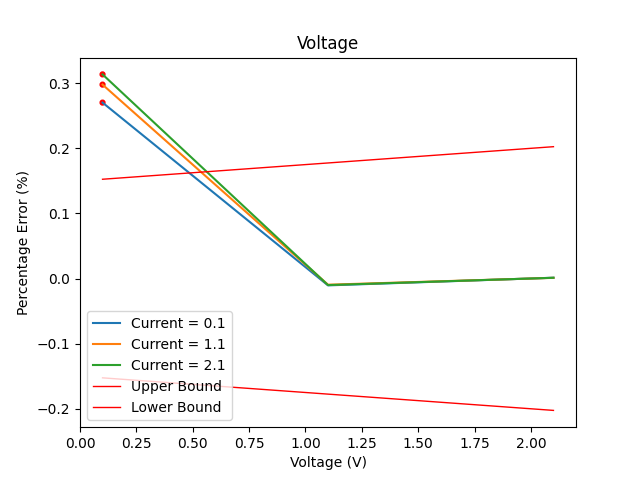
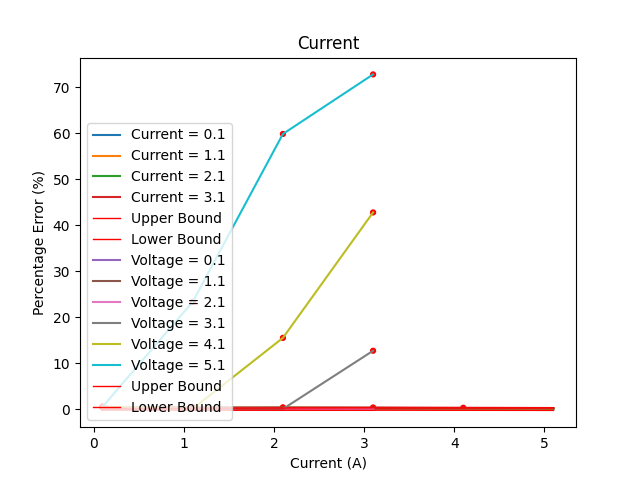
Error with legend of the plot

diff --git a/src/data.py b/src/data.py
@@ -21,7 +21,7 @@ class datatoCSV_Accuracy(object):
 
     """
 
-    def __init__(self, infoList, dataList, flag):
+    def __init__(self, infoList, dataList, flag_VI):
         """This function initializes the preprocessing of data and generate CSV file
 
             This function begins by extracting the list provided as an arguement into
@@ -68,11 +68,11 @@ class datatoCSV_Accuracy(object):
         Irdbk_error = Iset - Ireadback
         IPrdbk_error = Irdbk_error / Iset * 100
 
-        if flag == 1:
+        if flag_VI == 1:
             VsetF = Vset.to_frame(name="Voltage Set (PS)")
             IsetF = Iset.to_frame(name="Current Set (EL)")
             VIfixF = VIfix.to_frame(name="Current set (PS)")
-        elif flag == 2:
+        elif flag_VI == 2:
             VsetF = Vset.to_frame(name="Voltage Set (EL)")
             IsetF = Iset.to_frame(name="Current Set (PS)")
             VIfixF = VIfix.to_frame(name="Voltage set (PS)")
@@ -243,8 +243,8 @@ class datatoCSV_Regulation(object):
 class datatoGraph(datatoCSV_Accuracy):
     """Child class of datatoCSV_Accuracy to plot the graph"""
 
-    def __init__(self, infoList, dataList):
-        super().__init__(infoList, dataList)
+    def __init__(self, infoList, dataList, flag_VI):
+        super().__init__(infoList, dataList, flag_VI)
         self.data = pd.read_csv("csv/data.csv")
 
     def errorBoundary(self, param1, param2, UNIT, x, x_err, y):
@@ -314,9 +314,9 @@ class datatoGraph(datatoCSV_Accuracy):
             plt.plot(
                 x,
                 x_err,
-                label="Current = " + str(y.iloc[0]["Current Set"]),
+                label="Current = " + str(y.iloc[0]["Current Set (EL)"]),
             )
-
+            # plt.legend(loc="upper left")
             plt.title(UNIT)
             plt.xlabel("Voltage (V)")
             plt.ylabel("Percentage Error (%)")
@@ -365,9 +365,9 @@ class datatoGraph(datatoCSV_Accuracy):
             plt.plot(
                 x,
                 x_err,
-                label="Voltage = " + str(y.iloc[0]["Voltage Set"]),
+                label="Voltage = " + str(y.iloc[0]["Voltage Set (EL)"]),
             )
-            plt.legend(loc="upper left")
+            # plt.legend(loc="upper left")
             plt.title(UNIT)
             plt.xlabel("Current (A)")
             plt.ylabel("Percentage Error (%)")
@@ -405,8 +405,8 @@ class datatoGraph(datatoCSV_Accuracy):
         conditionC_rdbk = pd.Series()
 
         for x in range(len(grouped_df)):
-            Vset = grouped_df.get_group(x)[["Voltage Set"]]
-            Iset = grouped_df.get_group(x)[["Current Set"]]
+            Vset = grouped_df.get_group(x)[["Voltage Set (PS)"]]
+            Iset = grouped_df.get_group(x)[["Current Set (EL)"]]
             Vpercent_error_meas = grouped_df.get_group(x)[["Volt Meas_Err(%)"]]
             Vpercent_error_rdbk = grouped_df.get_group(x)[["Volt Rdbk_Err(%)"]]
             # Ipercent_error = grouped_df.get_group(x)[["Curr Meas_Err(%)"]]
@@ -485,7 +485,7 @@ class datatoGraph(datatoCSV_Accuracy):
             plt.plot(
                 VsetS,
                 Vpercent_errorS_meas,
-                label="Current = " + str(Iset.iloc[0]["Current Set"]),
+                label="Current = " + str(Iset.iloc[0]["Current Set (EL)"]),
             )
 
             plt.title("Voltage")
@@ -580,8 +580,8 @@ class datatoGraph(datatoCSV_Accuracy):
         conditionC_rdbk = pd.Series()
 
         for x in range(len(grouped_df)):
-            Vset = grouped_df.get_group(x)[["Voltage Set"]]
-            Iset = grouped_df.get_group(x)[["Current Set"]]
+            Vset = grouped_df.get_group(x)[["Voltage Set (EL)"]]
+            Iset = grouped_df.get_group(x)[["Current Set (PS)"]]
             # Vpercent_error = grouped_df.get_group(x)[["Volt Meas_Err(%)"]]
             Ipercent_error_meas = grouped_df.get_group(x)[["Curr Meas_Err(%)"]]
             Ipercent_error_rdbk = grouped_df.get_group(x)[["Curr Meas_Err(%)"]]
@@ -660,7 +660,7 @@ class datatoGraph(datatoCSV_Accuracy):
             plt.plot(
                 IsetS,
                 Ipercent_errorS_meas,
-                label="Voltage = " + str(Vset.iloc[0]["Voltage Set"]),
+                label="Voltage = " + str(Vset.iloc[0]["Voltage Set (EL)"]),
             )
 
             plt.title("Current")

diff --git a/main_GUI.py b/main_GUI.py
@@ -480,7 +480,7 @@ class VoltageMeasurementDialog(QDialog):
         self.DMM_I = "USB0::0x2A8D::0x0201::MY57702174::0::INSTR"
 
     def ELoad_VisaAddress_changed(self, s):
-        self.ELoad = "USB0::0x2A8D::0x3902::MY60260001::0::INSTR"
+        self.ELoad = "USB0::0x2A8D::0x5C02::MY62100065::0::INSTR"
 
     def ELoad_Channel_changed(self, s):
         self.ELoad_Channel = 1
@@ -667,8 +667,8 @@ class VoltageMeasurementDialog(QDialog):
 
             if self.checkbox_data_Report == 2:
                 instrumentData(self.PSU, self.DMM_V, self.ELoad)
-                datatoCSV_Accuracy(infoList, dataList, flag=1)
-                datatoGraph(infoList, dataList)
+                datatoCSV_Accuracy(infoList, dataList, flag_VI=1)
+                datatoGraph(infoList, dataList, flag_VI=1)
                 datatoGraph.scatterCompareVoltage(
                     self, float(self.Prog_Accuracy_Gain), float(self.Prog_Accuracy_Offset), float(self.Rdbk_Accuracy_Gain), float(self.Rdbk_Accuracy_Offset)
                 )
@@ -943,7 +943,7 @@ class CurrentMeasurementDialog(QDialog):
         self.DMM_I = "USB0::0x2A8D::0x0201::MY57702174::0::INSTR"
 
     def ELoad_VisaAddress_changed(self, s):
-        self.ELoad = "USB0::0x2A8D::0x3902::MY60260001::0::INSTR"
+        self.ELoad = "USB0::0x2A8D::0x5C02::MY62100065::0::INSTR"
 
     def ELoad_Channel_changed(self, s):
         self.ELoad_Channel = 1
@@ -1131,8 +1131,8 @@ class CurrentMeasurementDialog(QDialog):
 
             if self.checkbox_data_Report == 2:
                 instrumentData(self.PSU, self.DMM_I, self.ELoad)
-                datatoCSV_Accuracy(infoList, dataList, flag=2)
-                datatoGraph(infoList, dataList)
+                datatoCSV_Accuracy(infoList, dataList, flag_VI=2)
+                datatoGraph(infoList, dataList, flag_VI=2)
                 datatoGraph.scatterCompareCurrent(
                     self, float(self.Prog_Accuracy_Gain), float(self.Prog_Accuracy_Offset), float(self.Rdbk_Accuracy_Gain), float(self.Rdbk_Accuracy_Offset)
                 )
